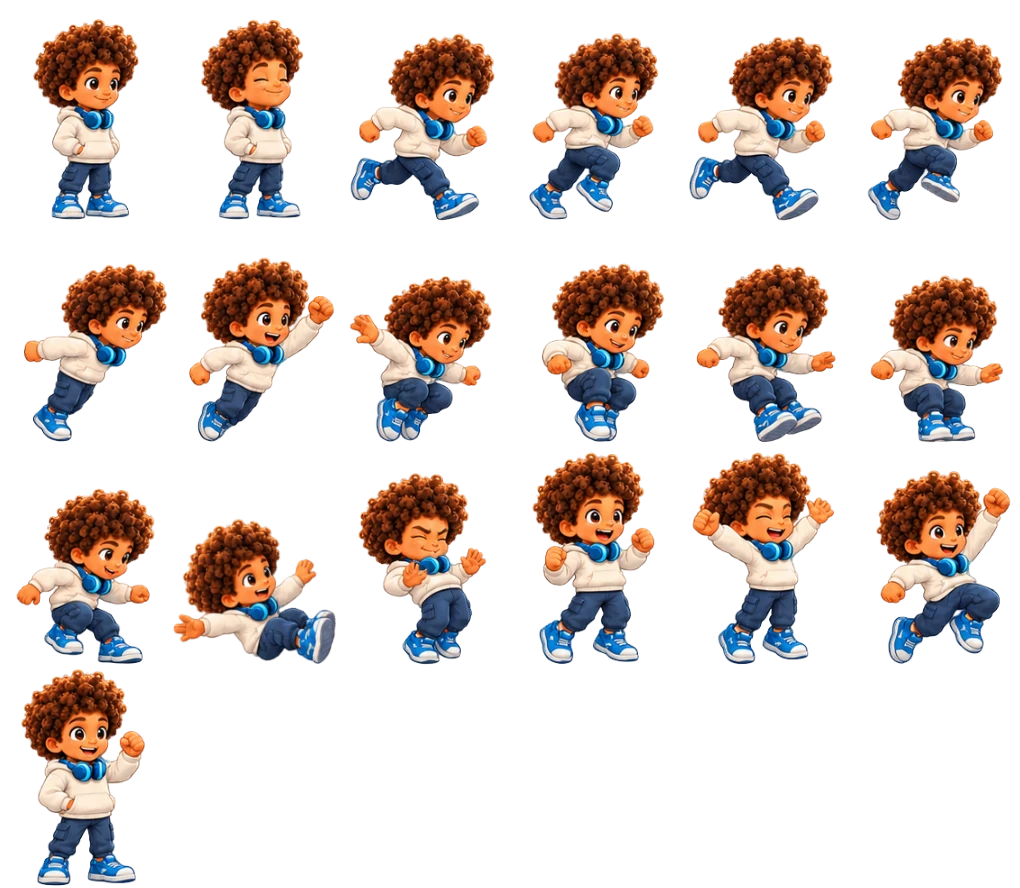
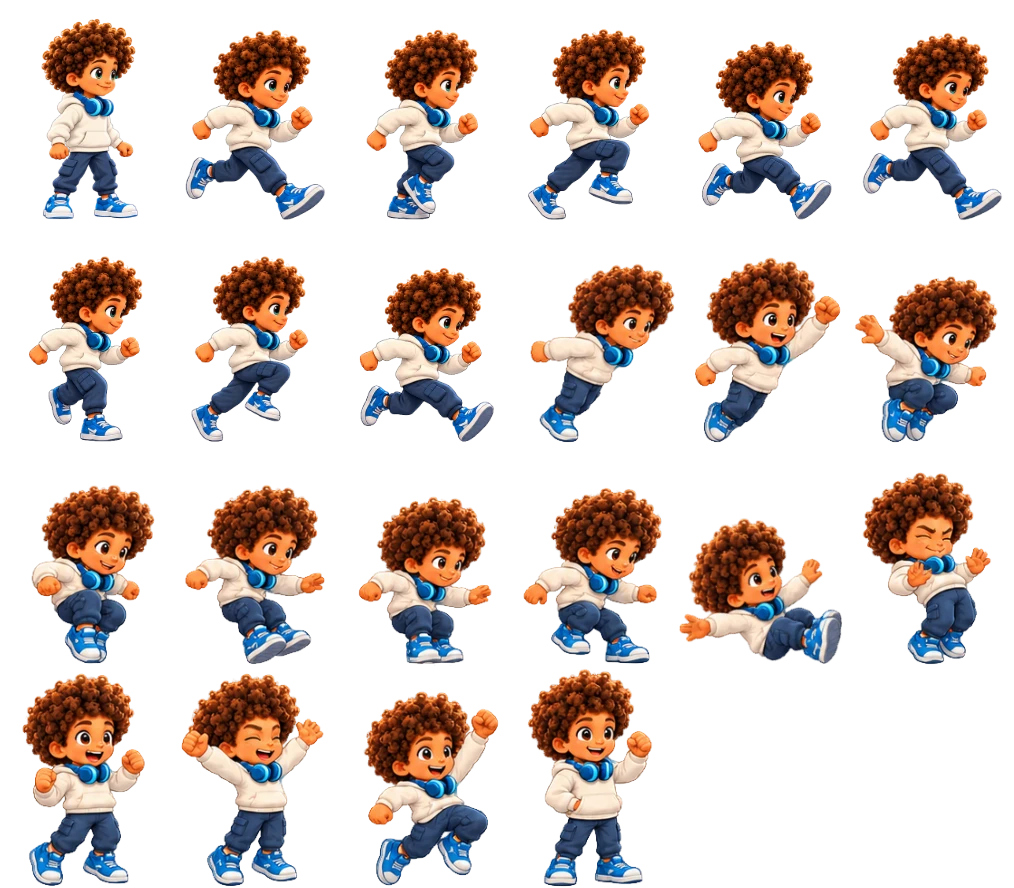
Jump & Slide: eight-pose run cycles and side-view stand poses for Mike and Mia (glow cleaned, one scale and foot line across all sources), Mike's eyes blue-green on the run and stand poses (the small anim-sheet poses keep the drawn eyes, noted as temporary)

diff --git a/assets/games/jump/sprites.js b/assets/games/jump/sprites.js
@@ -3,7 +3,8 @@
 // (every pose stands on it), and the cells that play each animation state.
 // Temporary frames:
 //   mike.slide: Mike has no slide pose on his sheet: his "leaning back, legs forward" air pose (row 5, column 2) is turned 42° backwards as a stand-in. Replace with a real slide frame when it is drawn.
+//   mike.eyes: Mike's eyes are recoloured to blue-green on the run cycle (near eye) and the stand pose (both eyes); the jump, double jump, fall, land, slide, hurt and celebrate poses from mike-anim.png keep the brown eyes as drawn (their irises are a few near-black pixels; the recolour came out as brown eyes with a teal rim, so it is not applied). The far eye on the run cycle is a sliver against the hair and also stays brown.
 export const SPRITES = {
-  mike: {"src":"mike.webp","cell":[170,222],"anchor":[84,219],"cols":6,"height":200,"states":{"idle":[0,1],"run":[2,3,4,5],"jump":[6,7],"doubleJump":[8,9],"fall":[10,11],"land":[12],"slide":[13],"hurt":[14],"celebrate":[15,16,17,18]},"boxes":[[-51,-200,54],[-53,-199,48],[-74,-185,70],[-65,-186,64],[-74,-183,68],[-66,-182,67],[-60,-177,82],[-65,-183,79],[-73,-165,67],[-52,-177,69],[-67,-177,71],[-64,-166,68],[-67,-174,70],[-81,-144,81],[-66,-190,61],[-61,-211,59],[-72,-210,69],[-58,-193,76],[-62,-215,60]],"temporary":["slide"]},
-  mia: {"src":"mia.webp","cell":[203,207],"anchor":[102,204],"cols":6,"height":200,"states":{"idle":[0,1],"run":[2,3,4,5],"jump":[6,7],"doubleJump":[8,9],"fall":[10,11],"land":[12],"slide":[13],"hurt":[14],"celebrate":[15,16,17,18]},"boxes":[[-56,-200,52],[-57,-201,52],[-72,-200,69],[-75,-184,76],[-83,-199,74],[-70,-185,66],[-64,-184,83],[-64,-183,86],[-64,-200,93],[-67,-183,81],[-77,-177,88],[-68,-173,76],[-54,-184,71],[-98,-118,98],[-84,-188,78],[-77,-201,75],[-74,-194,77],[-71,-192,80],[-69,-198,73]],"temporary":[]}
+  mike: {"src":"mike.webp","cell":[169,222],"anchor":[84,219],"cols":6,"height":200,"states":{"idle":[0],"run":[1,2,3,4,5,6,7,8],"jump":[9,10],"doubleJump":[11,12],"fall":[13,14],"land":[15],"slide":[16],"hurt":[17],"celebrate":[18,19,20,21]},"boxes":[[-42,-200,53],[-67,-189,71],[-55,-189,56],[-63,-190,58],[-62,-178,71],[-66,-186,72],[-55,-184,58],[-61,-184,54],[-62,-173,71],[-60,-176,82],[-65,-183,79],[-73,-165,68],[-52,-177,69],[-67,-177,70],[-63,-166,68],[-68,-175,70],[-81,-145,81],[-66,-190,61],[-62,-211,60],[-72,-211,69],[-57,-193,75],[-63,-215,60]],"temporary":["slide","eyes"]},
+  mia: {"src":"mia.webp","cell":[203,208],"anchor":[102,205],"cols":6,"height":200,"states":{"idle":[0],"run":[1,2,3,4,5,6,7,8],"jump":[9,10],"doubleJump":[11,12],"fall":[13,14],"land":[15],"slide":[16],"hurt":[17],"celebrate":[18,19,20,21]},"boxes":[[-46,-200,51],[-74,-199,75],[-58,-190,63],[-75,-194,62],[-74,-184,72],[-74,-197,76],[-59,-190,64],[-76,-193,60],[-66,-180,81],[-64,-182,83],[-64,-183,87],[-64,-198,93],[-67,-184,81],[-78,-176,88],[-68,-174,76],[-54,-185,71],[-98,-116,99],[-84,-189,78],[-77,-202,74],[-75,-194,77],[-72,-192,80],[-69,-198,73]],"temporary":[]}
 };

diff --git a/assets/games/jump/style.css b/assets/games/jump/style.css
@@ -63,7 +63,7 @@
 .kj-worlds{display:grid;grid-template-columns:repeat(3,1fr);gap:10px;width:min(620px,100%)}
 .kj-world{position:relative;border:0;padding:0;border-radius:18px;overflow:hidden;aspect-ratio:16/10;background:#123;box-shadow:0 5px 0 rgba(10,30,90,.4),inset 0 0 0 3px rgba(255,255,255,.5)}
 .kj-world img{position:absolute;inset:0;width:100%;height:100%;object-fit:cover}
-.kj-world span{position:absolute;left:0;right:0;bottom:0;padding:16px 6px 6px;background:linear-gradient(180deg,transparent,rgba(5,20,60,.85));font-size:clamp(13px,2.7vmin,17px);line-height:1.05;text-align:center}
+.kj-world span{position:absolute;left:0;right:0;bottom:0;padding:16px 6px 6px;background:linear-gradient(180deg,transparent,rgba(5,20,60,.85));font-size:clamp(10.5px,2.7vmin,17px);line-height:1.05;text-align:center;hyphens:auto}
 .kj-world small{display:block;font-size:12px;color:#ffd23f;margin-top:2px}
 .kj-world[aria-pressed=true]{box-shadow:0 5px 0 #c27c00,inset 0 0 0 4px #ffd23f,0 0 0 3px rgba(255,210,63,.6)}
 .kj-go{border:0;border-radius:30px;padding:14px 38px;min-height:58px;font-size:clamp(22px,4.4vmin,28px);background:linear-gradient(180deg,#ffe066,#ffb300);color:#6b3a00;box-shadow:0 6px 0 #b86e00,0 10px 20px rgba(0,0,0,.25)}

diff --git a/assets/games/jump/render.js b/assets/games/jump/render.js
@@ -277,7 +277,7 @@ export function createRenderer(canvas, { level, world, sprites, hero, reducedMot
     const p = s.p, S = sprites[hero], img = sprites.images[hero];
     const state = pose(s), list = S.states[state];
     let i = 0;
-    if (state === 'run') i = Math.floor(time * 11) % list.length;
+    if (state === 'run') i = Math.floor(time * 14) % list.length;   // 8 poses: about two strides a second at 14 per second
     else if (state === 'idle') i = (time % 3) > 2.85 ? 1 : 0;
     else if (state === 'jump') i = p.vy < -420 ? 0 : 1;
     else if (state === 'doubleJump') i = p.doubleT > .25 ? 0 : 1;
